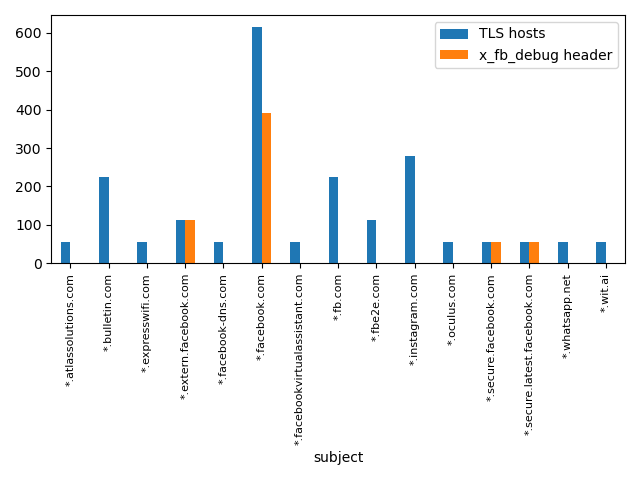
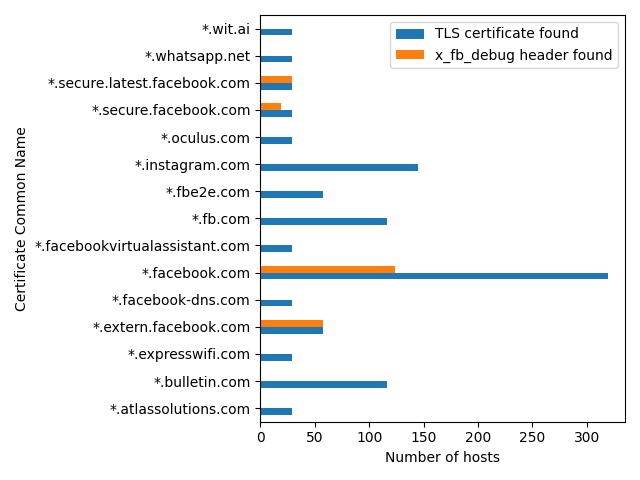
refactor(onnet): plot with correct data
Former-commit-id: 35c3571435a6e784d73244bb5ec4fa4d8ebbbdc9

diff --git a/onnet_scan/analysis/analyze_output.py b/onnet_scan/analysis/analyze_output.py
@@ -1,10 +1,9 @@
+import sys
+
 import pandas as pd
+
 pd.options.display.max_rows = 200
-import numpy as np
-import matplotlib.pyplot as plt
-import gc
 import functools
-import json
 
 
 def select(row):
@@ -24,13 +23,13 @@ def select(row):
             if key == 'http.result.response.headers.unknown':
                 keys = list(map(lambda x: x['key'], data[key][0]))
                 keys.sort()
-                keys = functools.reduce(lambda acc, curr: acc + ' ' + curr, keys, '')
+                keys = ' '.join(keys)
                 include.append(keys)
             else:
                 value = data[key][0]
                 if isinstance(value, list):
                     value.sort()
-                    value = functools.reduce(lambda acc, curr: acc + ' ' + curr, value, '')
+                    value = ' '.join(value)
                 include.append(value)
         else:
             include.append("")
@@ -51,7 +50,7 @@ def load_data(file_name):
     df = df.apply(select, axis=1, result_type='expand')
     return df
 
-df = load_data("../2022-08-16T13/output.zip")
+df = load_data(sys.argv[1])
 
 # Different status
 status = df.groupby(["status"]).size().reset_index()
@@ -62,19 +61,20 @@ success = df[df['certificate'].str.len() > 0]
 # Unique issuer sn
 print("\nUnique issuer sns:\n", success[["issuer"]].nunique().to_frame(name="issuer nunique"))
 # Analyze certificates
-certs = success.groupby(["subject", "certificate"]).size().reset_index()
+certs = success.groupby(["subject", "certificate"]).size().reset_index().rename(columns={0: 'count'})
+certs.filter(['subject', 'count']).to_csv('subject_cert_count.csv', sep='\t')
 # Unique certificates per subject cn
 print("\nUnique subjects and certificates:\n", certs.nunique().to_frame(name="nunique"))
 # Print certificates
 print("\ncertificates:\n", certs)
 
-
 # Analyze http header keys
 header_keys = success.groupby(["header_key"]).size().reset_index()
 print("\nheader_keys:\n", header_keys)
 
-certs = success.groupby(["subject", "header_key"]).size().reset_index()
+certs = success.groupby(["subject", "header_key"]).size().reset_index().rename(columns={0: 'count'})
 # Header keys per subject
+certs.to_csv('header_per_subject.csv', sep='\t')
 print("\nHeader keys per subject:\n", certs)
 
 

diff --git a/onnet_scan/analysis/plot.py b/onnet_scan/analysis/plot.py
@@ -1,29 +1,23 @@
-import pandas as pd
-import numpy as np
 import matplotlib.pyplot as plt
-import gc
+import numpy as np
+import pandas as pd
 
 
 def load_data(file_name):
-    load_config = {
-        "delim_whitespace": True,
-        "engine":'c',
-        "index_col":False,
-    }
-    return pd.read_csv(file_name, **load_config)
+    return pd.read_csv(file_name, sep='\t', engine='c')
 
-subject_certs = load_data('subject_cert_count.csv')
+subject_certs = load_data('subject_cert_count.csv').filter(['subject', 'count']).rename(columns={'count': 'count_cert_found'})
 
 headers = load_data('header_per_subject.csv')
-headers = headers[headers['header_key']=='x_fb_debug'].filter(items=['subject', '0']).groupby('subject').sum()
-print(headers.to_string())
-
+headers = headers[headers['header_key']=='x_fb_debug'].filter(['subject', 'count']).groupby('subject').sum().rename(columns={'count': 'count_header_found'})
 
 data = subject_certs.merge(headers, on='subject', how='outer', validate='one_to_one')
-data.rename(columns = {'0':'x_fb_debug header', 'count': 'TLS hosts'}, inplace = True)
+data.rename(columns = {'count_header_found':'x_fb_debug header found', 'count_cert_found': 'TLS certificate found'}, inplace = True)
 
-ax = data.plot.bar(x='subject')
-ax.tick_params(axis='x', labelsize=8)
+
+ax = data.plot.barh(x='subject', xlabel='Certificate Common Name')
+ax.tick_params(axis='x')
+plt.xlabel('Number of hosts')
 plt.tight_layout()
 plt.savefig("plots/onnet_certs_headers.png")
 
